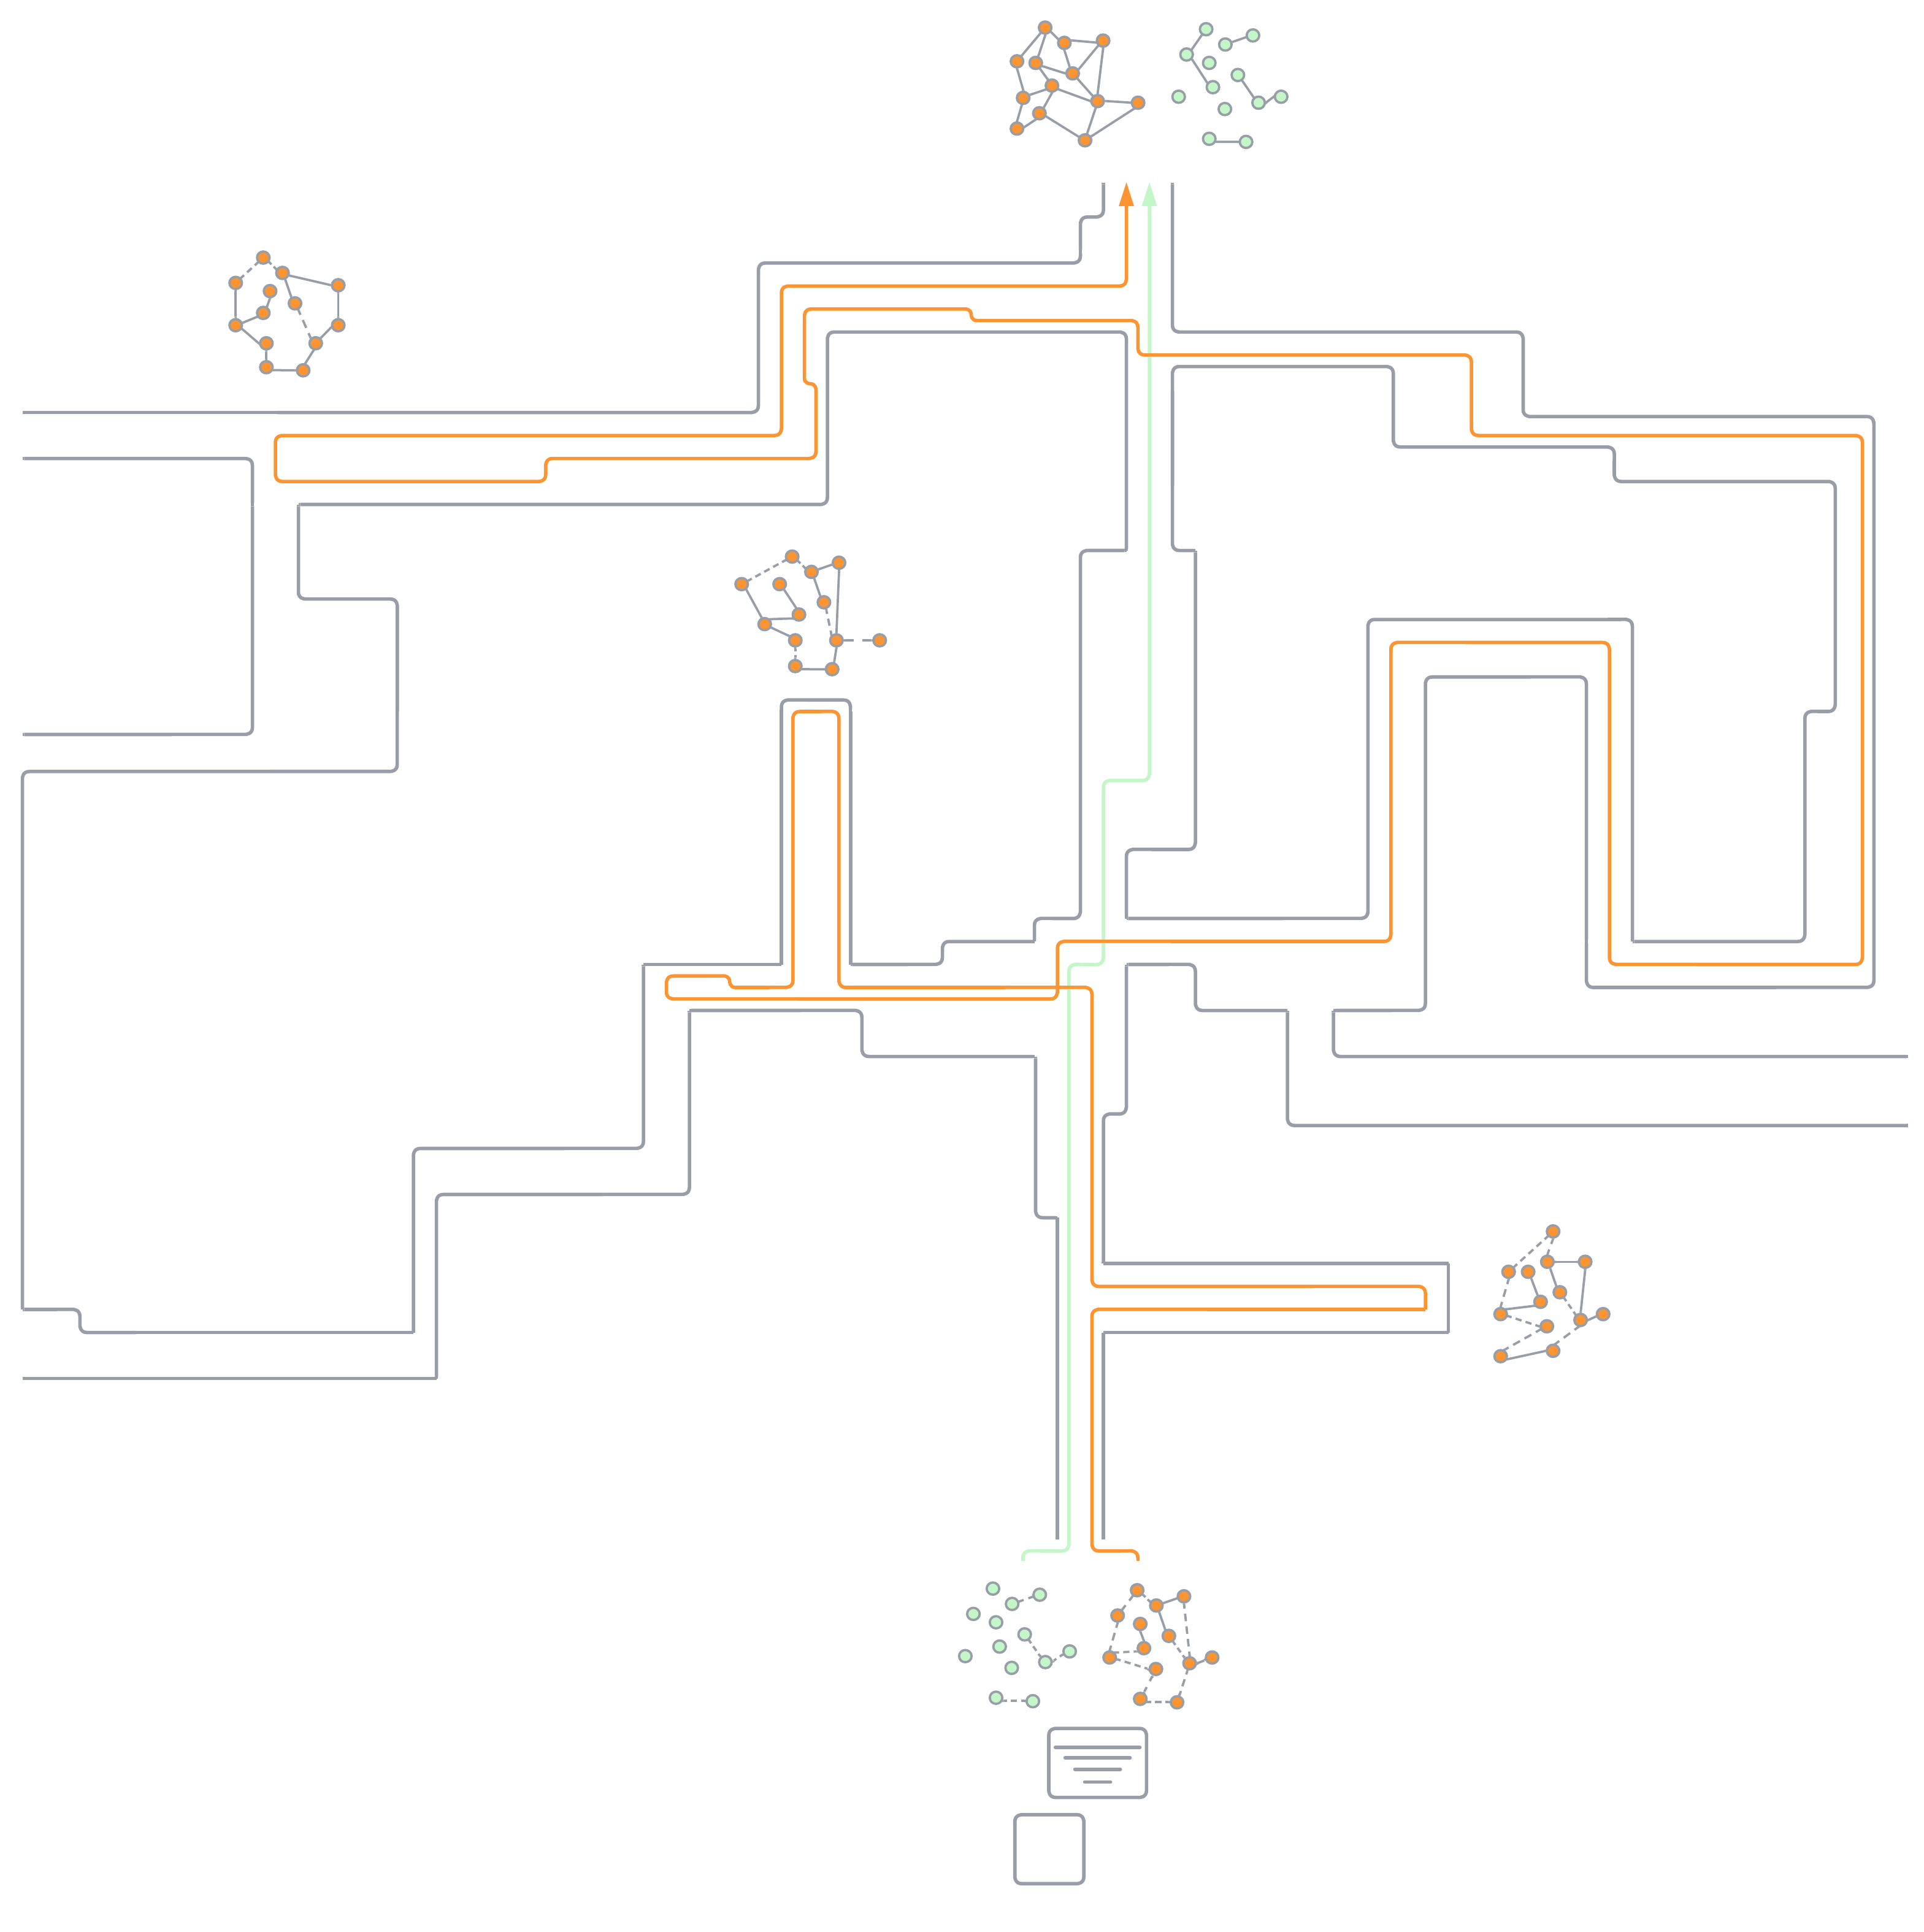
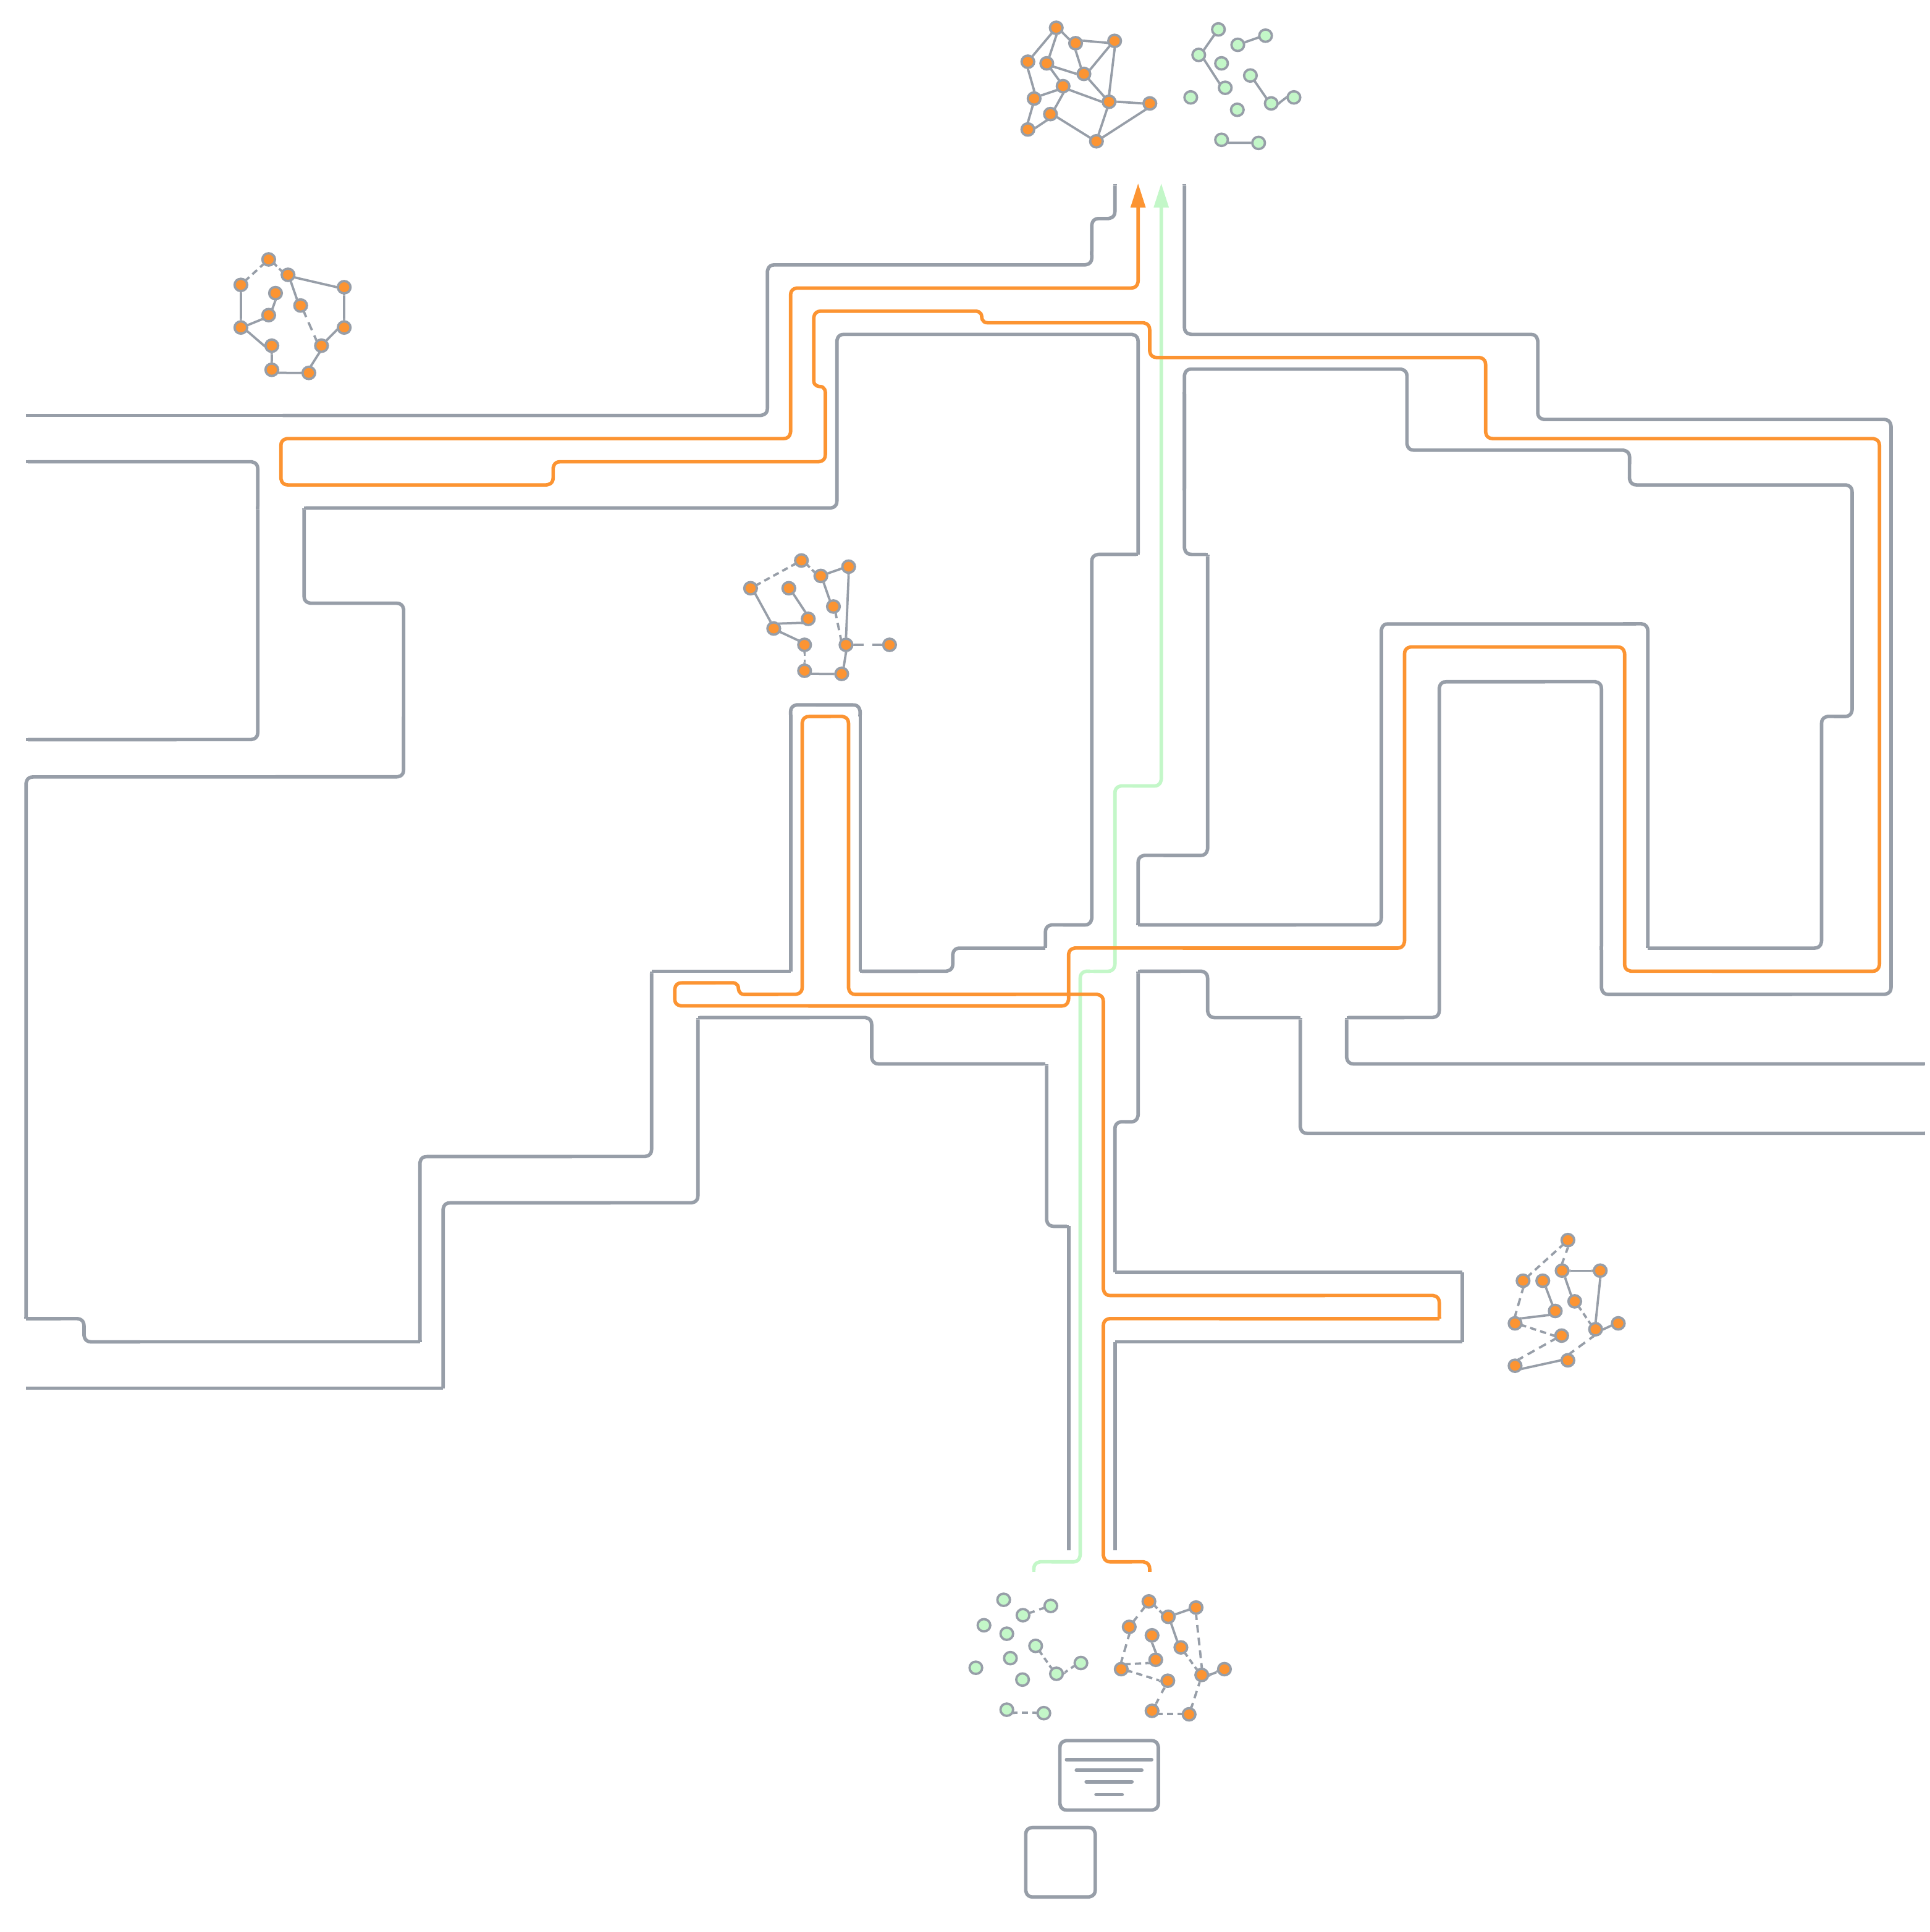
feat: group projects under category titles

Changed region(s): [[0.0, 0.0, 0.9936, 0.9923]]

diff --git a/projects/index.html b/projects/index.html
@@ -64,6 +64,21 @@
             overflow-wrap: anywhere;
         }
 
+        .group-title {
+            font-size: 0.85rem;
+            font-weight: 600;
+            margin: 1.8rem 0 0;
+            color: #1a1a1a;
+        }
+
+        .group-title:first-of-type {
+            margin-top: 0;
+        }
+
+        .topics {
+            margin: 0.3rem 0 0;
+        }
+
         .highlight {
             color: #f0820e;
         }
@@ -86,15 +101,27 @@
         <a href="../drawings">Drawings</a>
     </div>
 
+    <div class="group-title">Agent Training &amp; Control</div>
     <ul class="topics">
         <li class="has-desc"><a href="./self-learning/">Self-Learning</a>: <span class="highlight">Designed</span> and <span class="highlight">developed the training process of two models</span>: one that is responsible for <span class="highlight">imagining what the state of the agent would look like in the next step</span> if it takes a specific action, and another model for <span class="highlight">determining which action should be taken in the next step to reach the target.</span> Also <span class="highlight">integrated a curriculum learning process</span> for both models to ensure that the agent starts learning from simple tasks first, before jumping to more difficult tasks.</li>
         <li class="has-desc"><a href="./decision-making/">Decision Making</a>: Implemented <span class="highlight">Behavior Cloning</span>, <span class="highlight">Goal Conditioned Behavior Cloning</span>, and <span class="highlight">Behavior Transformer</span> in a simulated environment for <span class="highlight">fixed goal</span>, <span class="highlight">changing goal</span>, and <span class="highlight">multimodal goal</span> settings, and analyzed/compared their behavior.</li>
+    </ul>
+
+    <div class="group-title">Video &amp; Motion Prediction</div>
+    <ul class="topics">
         <li class="has-desc"><a href="./continual-learning/">Energy Based Continual Learning</a>: Developing an <span class="highlight">energy</span> and <span class="highlight">optical-flow-based</span> AI model to jointly <span class="highlight">predict future video frames</span> and <span class="highlight">motion (optical flow)</span> in a sequential manner from the same hidden state.</li>
-        <li class="has-desc"><a href="./cpu-scheduler/">CPU Scheduler with C++</a>: Applied the most commonly used CPU Scheduling algorithms in C++ and explained the processes/threads, scheduling process, and synchronization.</li>
-        <li class="has-desc"><a href="./virtual-memory/">Virtual Memory with C++</a>: A C++ implementation of a virtual memory management system simulator. This project models various page replacement algorithms, including <span class="highlight">FIFO</span>, <span class="highlight">Random</span>, <span class="highlight">Clock</span>, <span class="highlight">ESC (Enhanced Second Chance)</span>, <span class="highlight">Aging</span>, and <span class="highlight">Working Set</span>.</li>
+    </ul>
+
+    <div class="group-title">RAG &amp; Agentic Pipelines / LLM-Powered Applications</div>
+    <ul class="topics">
         <li class="has-desc"><a href="./agentic-data-assistant/">Agentic Data Assistant</a>: Built an <span class="highlight">end-to-end agentic system</span> with <span class="highlight">LangGraph</span> and <span class="highlight">LangChain</span>. Also built the <span class="highlight">backend</span> that handles <span class="highlight">authentication, sessions, file management,</span> and <span class="highlight">caching</span>. <span class="highlight">Containerized the services with Docker</span>, and <span class="highlight">deployed them on AWS</span>. Currently integrating an <span class="highlight">evaluation pipeline</span> with custom LLM-as-judge evaluators to assess the system from diverse perspectives.</li>
         <li class="has-desc"><a href="./brown-assistant/">Brown Assistant</a>: Built a <span class="highlight">RAG based Q&amp;A application</span>. Implemented <span class="highlight">document chunking</span>, <span class="highlight">embedding-based vector indexing</span>, <span class="highlight">cross-encoder reranking</span>, and <span class="highlight">text generation</span> with OpenAI API. Developed FastAPI <span class="highlight">backend</span> and <span class="highlight">containerized the full stack</span> with Docker/Docker Compose and <span class="highlight">deployed on AWS</span>.</li>
-        
+    </ul>
+
+    <div class="group-title">Operating Systems Concepts</div>
+    <ul class="topics">
+        <li class="has-desc"><a href="./cpu-scheduler/">CPU Scheduler with C++</a>: Applied the most commonly used CPU Scheduling algorithms in C++ and explained the processes/threads, scheduling process, and synchronization.</li>
+        <li class="has-desc"><a href="./virtual-memory/">Virtual Memory with C++</a>: A C++ implementation of a virtual memory management system simulator. This project models various page replacement algorithms, including <span class="highlight">FIFO</span>, <span class="highlight">Random</span>, <span class="highlight">Clock</span>, <span class="highlight">ESC (Enhanced Second Chance)</span>, <span class="highlight">Aging</span>, and <span class="highlight">Working Set</span>.</li>
     </ul>
 
     <img src="../figures/destination.png" alt="Destination" class="destination-image">